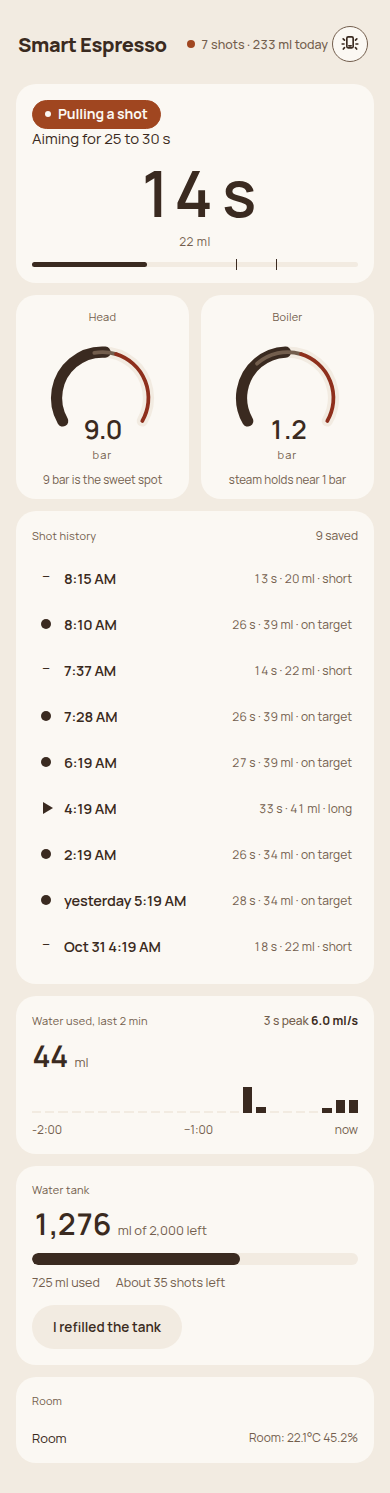
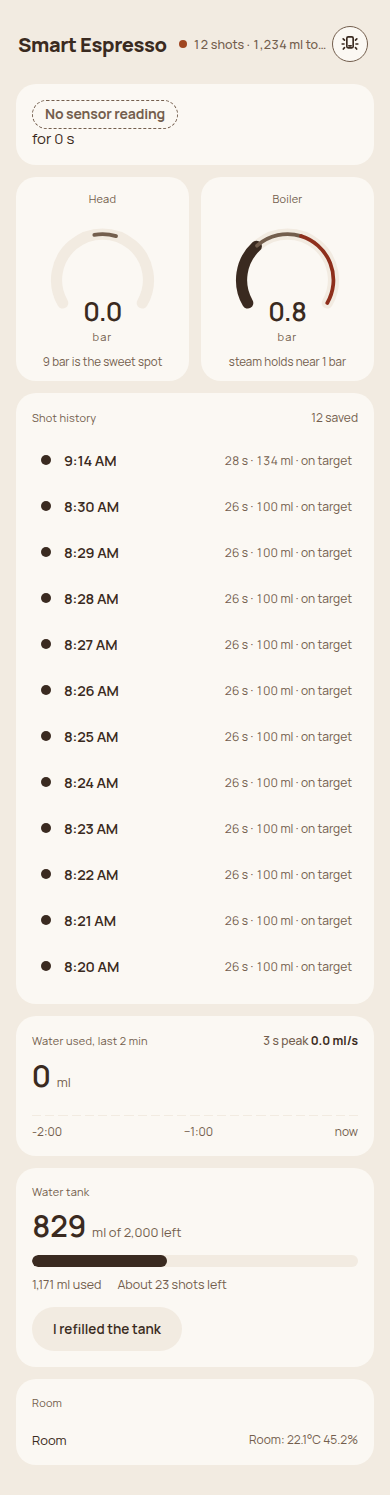
fix: keep the header title whole when the tally is long
The title no longer shrinks. A tally such as 12 shots · 1,234 ml today
ellipsizes, and it still hides below 375 where it cannot fit.
Shell cache is espresso-shell-v74.

diff --git a/smart_espresso/web/static/index.html b/smart_espresso/web/static/index.html
@@ -121,13 +121,10 @@
     margin: 0;
   }
 
-  /* The title yields before the status pills do. At 320 px a nowrap title
-     otherwise forces the page to scroll sideways. */
+  /* The title never truncates. The today line is what yields: it
+     ellipsizes, and below 375 it hides because it cannot fit. */
   header h1 {
-    flex: 1 1 auto;
-    min-width: 0;
-    overflow: hidden;
-    text-overflow: ellipsis;
+    flex: 0 0 auto;
     white-space: nowrap;
     font-size: 20px;
     font-weight: 800;
@@ -137,9 +134,11 @@
   .header-tools {
     display: flex;
     align-items: center;
-    flex: none;
+    flex: 1 1 auto;
+    min-width: 0;
     margin-left: auto;
     gap: 0;
+    overflow: hidden;
   }
 
   /* 44 px tap area. The visible circle or pill inside is 36 px tall,
@@ -222,8 +221,11 @@
   /* Today sits on the right of the one-line header. An empty line
      (the first shot of the day, still running) must not leave a gap. */
   header .tagline {
-    flex: none;
+    flex: 1 1 auto;
+    min-width: 0;
     margin: 0;
+    overflow: hidden;
+    text-overflow: ellipsis;
     font-family: var(--body);
     font-size: 12.5px;
     font-weight: 500;

diff --git a/smart_espresso/web/static/sw.js b/smart_espresso/web/static/sw.js
@@ -2,7 +2,7 @@
 // still opens (slightly stale, clearly marked so by the page itself) when
 // the machine's server hiccups. Sensor data is never cached: /api/* always
 // goes to the network.
-const CACHE = 'espresso-shell-v66';
+const CACHE = 'espresso-shell-v74';
 const SHELL = [
   '/',
   '/dashboard_logic.js',

diff --git a/smart_espresso/test/test_dashboard_logic.py b/smart_espresso/test/test_dashboard_logic.py
@@ -472,6 +472,10 @@ class TestTodayLine:
         assert (
             call("logic.todayLine({shots:2, ml:68}, true)") == "2 shots · 68 ml today"
         )
+        assert (
+            call("logic.todayLine({shots:12, ml:1234}, false)")
+            == "12 shots · 1,234 ml today"
+        )
 
     def test_the_empty_line_is_removed_from_the_header(self):
         page = (
@@ -557,12 +561,14 @@ class TestPhoneHeader:
         assert 'id="tagline-card"' not in self.page
         assert "header .tagline:empty { display: none" in self.page
         title = _css_rule(self.page, "header h1")
-        assert "font-size: 20px" in title
-        assert "font-weight: 800" in title
+        assert "flex: 0 0 auto" in title
+        assert "text-overflow: ellipsis" not in title
         today = _css_rule(self.page, "header .tagline")
         assert "font-size: 12.5px" in today
         assert "font-weight: 500" in today
         assert "font-variant-numeric: tabular-nums" in today
+        assert "min-width: 0" in today
+        assert "text-overflow: ellipsis" in today
         assert "var(--mute" in today
         gap = _css_rule(self.page, "header .conn + .tagline")
         assert "margin-left: 6px" in gap
@@ -596,13 +602,14 @@ class TestPhoneHeader:
         assert "@media (max-width: 480px)" not in self.page
 
     def test_narrow_phones_do_not_scroll_sideways(self):
-        # 320 and 360 used to overflow: the title could not shrink, so the
-        # connecting pill stuck out. The title ellipsizes instead.
+        # The title stays whole. A long today line ellipsizes instead.
         title = _css_rule(self.page, "header h1")
-        assert "min-width: 0" in title
-        assert "overflow: hidden" in title
-        assert "text-overflow: ellipsis" in title
+        assert "flex: 0 0 auto" in title
         assert "white-space: nowrap" in title
+        today = _css_rule(self.page, "header .tagline")
+        assert "min-width: 0" in today
+        assert "overflow: hidden" in today
+        assert "text-overflow: ellipsis" in today
         assert 'class="header-tools"' in self.page
         face = _css_rule(self.page, ".header-tools .pill-face")
         assert "height: 36px" in face

diff --git a/smart_espresso/test/test_dashboard_contrast.py b/smart_espresso/test/test_dashboard_contrast.py
@@ -158,7 +158,7 @@ class TestDashboardContrast:
         assert "fonts.googleapis.com" not in self.worker
         assert "fonts.gstatic.com" not in self.worker
         assert "/fonts/manrope.woff2" in self.worker
-        assert "espresso-shell-v66" in self.worker
+        assert "espresso-shell-v74" in self.worker
         font = PAGE.parent / "fonts" / "manrope.woff2"
         assert font.is_file()
         assert font.read_bytes()[:4] == b"wOF2"
